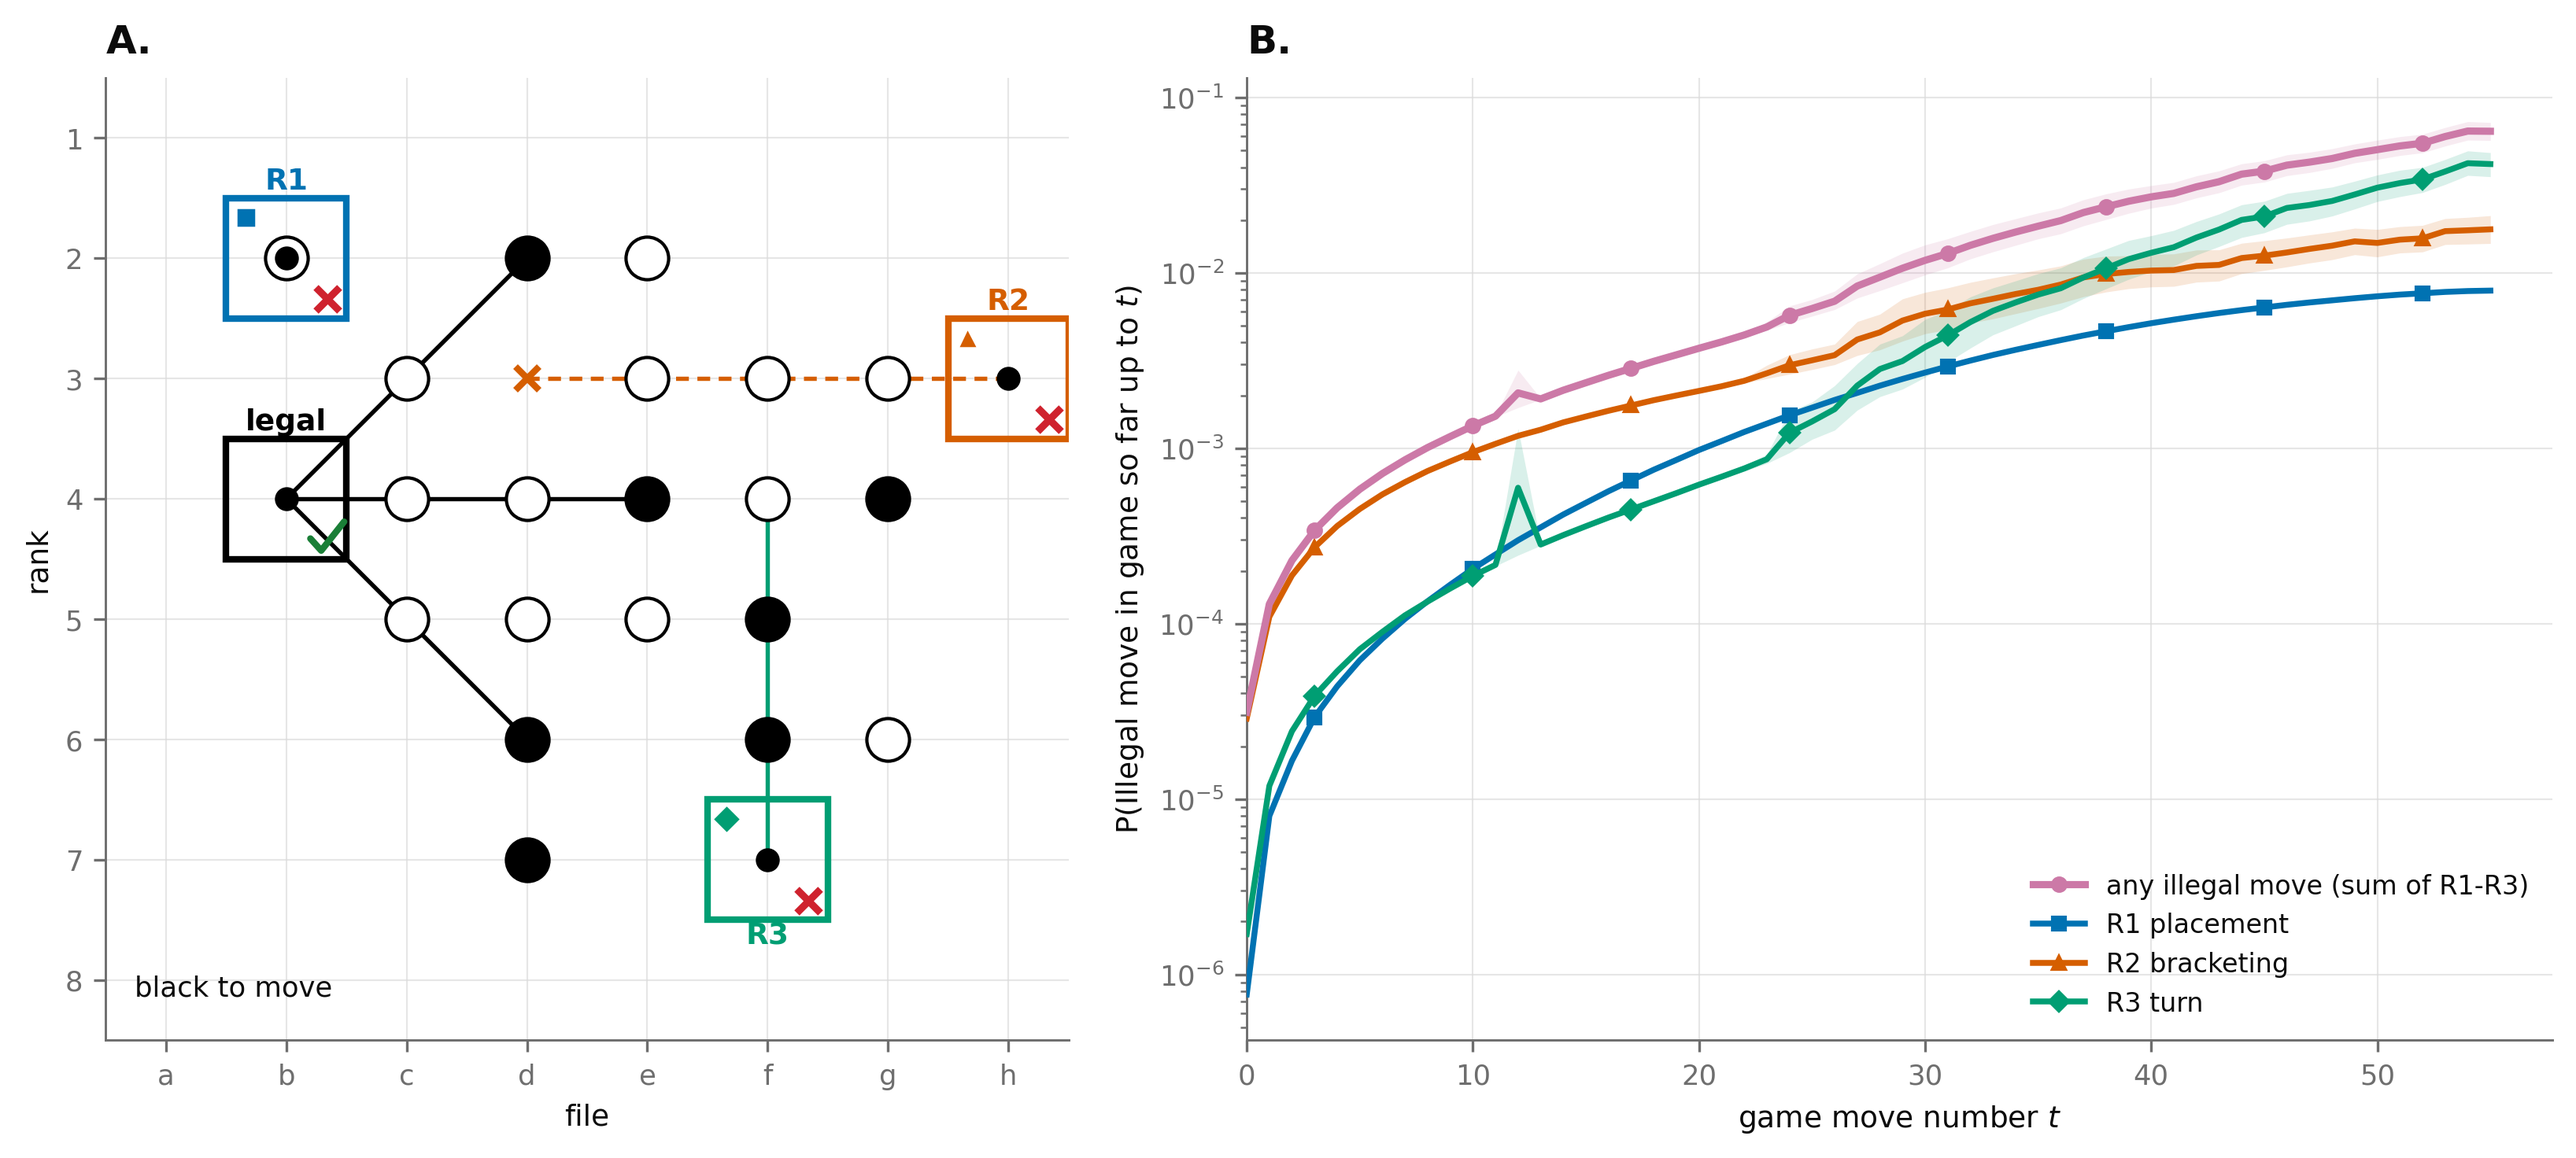
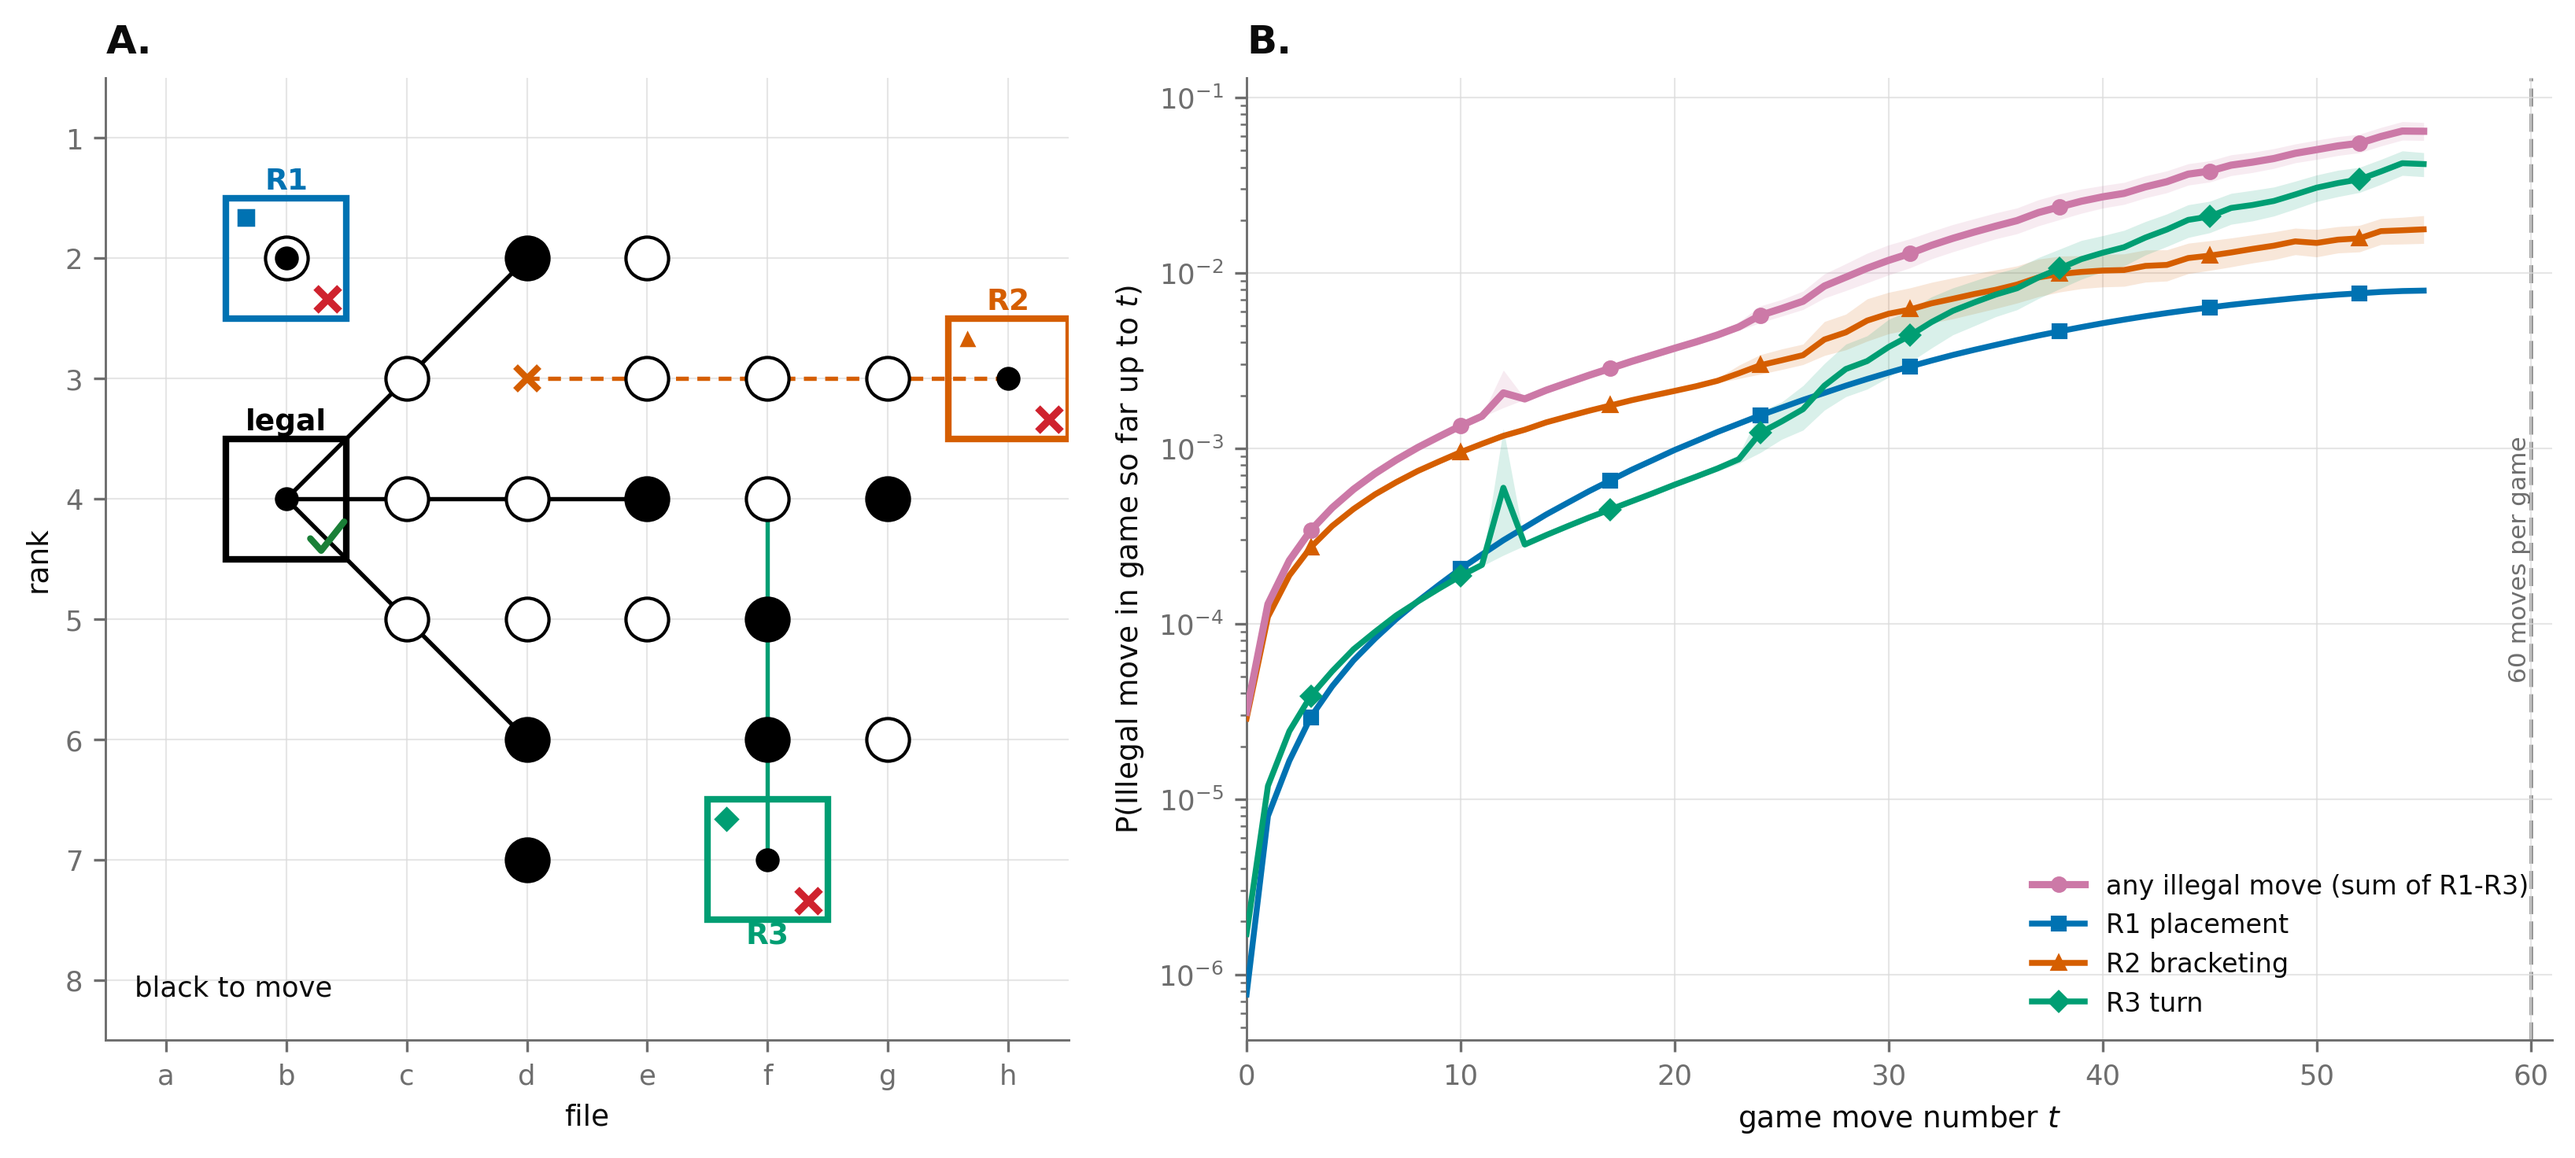
Show where a game ends on the cumulative-legality axis
The curve stops at t = 55 because that is the last move the rollout window measures,
not because a game does. The axis now runs to 61 with a dashed rule and a tick at 60,
labelled "60 moves per game", so the gap between the last measured move and the end of
a game is visible rather than cropped. The label is rotated at mid-height, which is
the one part of that panel neither the curves nor the legend occupy.

In generation_panels, so the study's own cumulative figure says it too.

diff --git a/src/spade/figures/generation_panels.py b/src/spade/figures/generation_panels.py
@@ -6,12 +6,14 @@ The statistics are `analysis/generation_legality/results/`; everything here is d
 import numpy as np
 import pandas as pd
 from matplotlib.ticker import FuncFormatter
+from matplotlib.transforms import blended_transform_factory
 
-from spade.figures.paper_style import GENERATION_STYLE, RULE_STYLE
+from spade.figures.paper_style import GENERATION_STYLE, MUTED, NULL, RULE_STYLE
 from spade.othello.taxonomy import RULE_MEMBERS
 
 RULES = {rule.split()[0]: (rule, members) for rule, members in RULE_MEMBERS.items()}
-MARKS = 8   # markers per curve; the move axis has 56 points
+MARKS = 8      # markers per curve; the move axis has 56 points
+GAME_MOVES = 60  # a game is exactly 60 plies, so the axis has a hard right edge
 
 
 def curve(ax, x, frame: pd.DataFrame, style: dict, label: str, value: str = "mean", **kw):
@@ -58,5 +60,11 @@ def cumulative_panel(ax, by_move: pd.DataFrame) -> None:
     log_y(ax)
     ax.set_xlabel("game move number $t$")
     ax.set_ylabel("P(Illegal move in game so far up to $t$)")
-    ax.set_xlim(left=0)
+    # The axis runs to the end of a game rather than to the last measured move, so the gap
+    # between the two is visible instead of being cropped away.
+    ax.set_xlim(0, GAME_MOVES + 1)
+    ax.axvline(GAME_MOVES, color=NULL["color"], ls=NULL["ls"], lw=1.1, zorder=1)
+    ax.text(GAME_MOVES, 0.5, f"{GAME_MOVES} moves per game",
+            transform=blended_transform_factory(ax.transData, ax.transAxes), rotation=90,
+            ha="right", va="center", fontsize=7.5, color=MUTED)
     ax.legend(loc="lower right", fontsize=8)
